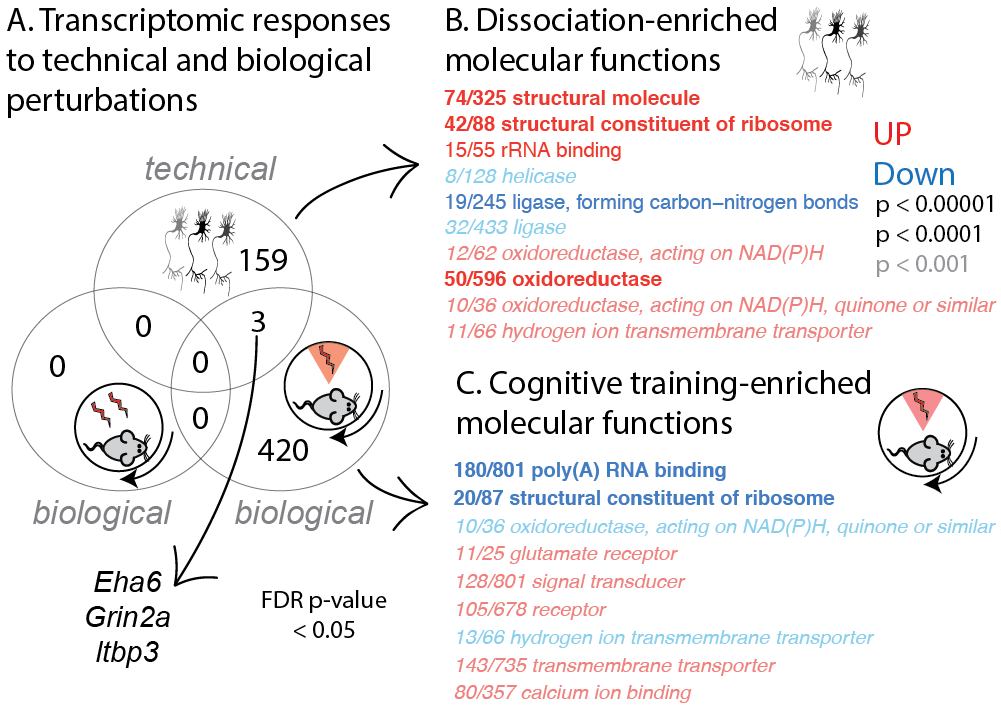
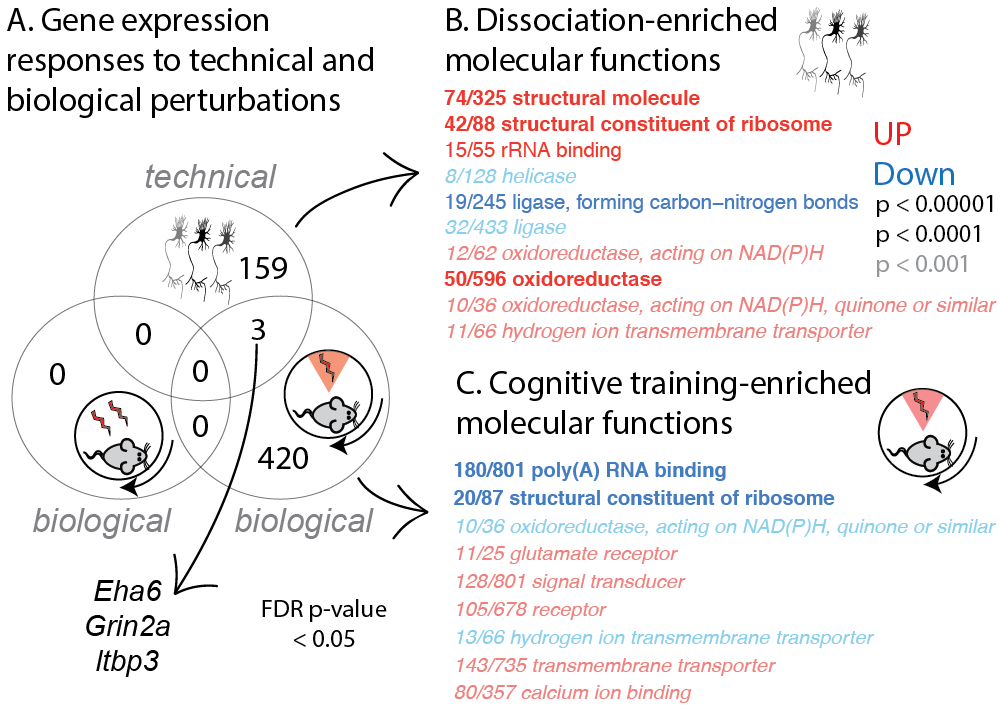
better figure titles

diff --git a/README.md b/README.md
@@ -39,7 +39,7 @@ We first processed tissue punch samples from the dentate gyrus, CA3, and CA1 hip
 
 <img src="https://github.com/raynamharris/DissociationTest/blob/master/figures/03_cognitiontest/03_cognitiontest-01.png" width="600px" align="middle"/>
 
-**Figure 3. Effects of a learned avoidance behavior on hippocampal transcriptomes.** A) Mice used in this study were either subjected to random but mild foot shocks (control) or subjected to mild foot shocks conditioned with spatial cues (trained). Tissue samples were collected from CA1, CA3, and DG. B) We identified only 423 genes that were significantly expressed according to cognitive training and identified 3485 genes that were were differentially expressed between any of the three brain regions (FDR p-value <0.05). C) Hierarchical clustering of the differentially expressed genes gives rise to three distinct clusters corresponding to the three brain regions, with CA1 and CA3 being more similar to one another than to DG. D) A principal component analysis of all genes in analysis (regardless of level of significance) shows that PC1 accounts for 50% of the variation and distinguishes the DG samples and the CA1 and CA3. PC2 accounts for 18% of the variation and distinguishes all three subfields. Ellipses were hand-drawn.
+**Figure 3. Effects of a learned avoidance behavior on hippocampal transcriptomes.** A) Mice used in this study were either subjected to random but mild foot shocks (control) or subjected to mild foot shocks conditioned with spatial cues (trained). Tissue samples were collected from CA1, CA3, and DG. B) We identified only 423 genes that were significantly expressed according to cognitive training and identified 3485 genes that were differentially expressed between any of the three brain regions (FDR p-value <0.05). C) Hierarchical clustering of the differentially expressed genes gives rise to three distinct clusters corresponding to the three brain regions, with CA1 and CA3 being more similar to one another than to DG. D) A principal component analysis of all genes in analysis (regardless of level of significance) shows that PC1 accounts for 56% of the variation and distinguishes the DG samples and the CA1 and CA3. PC2 accounts for 19% of the variation and distinguishes all three subfields. Ellipses were hand-drawn.
 
 
 ### Figure 4 and 5: Meta analyses
@@ -49,12 +49,12 @@ Here are [the analyses of Gene Ontology](./markdownfiles/06_GO_MWU/06_GO_MWU.Rmd
 
 <img src="https://github.com/raynamharris/DissociationTest/blob/master/figures/05_metaanalyses/05_meta123-01.png" width="600px" align="middle"/>
 
-**Figure 4. Unique and shared responses to technical treatments and biological perturbations.** A) The number of genes that show distinct or overlapping responses. B) The molecular function of genes up- or down-regulated in response to cellular dissociation. C) The molecular function of up- or down-regulated genes in response to cognitive training. The top 10 most significant GO terms are visualized, each with a p-value < 0.001.
+**Figure 4. Unique and shared responses to technical treatments and biological perturbations.** A) The number of genes that responded to chemical dissociation (163 genes), a stressful experience (0 genes), and cognitive training (423 genes). The three genes that respond to both technical and biological perturbation are Epha6, Grin2a, and Itbp3. B, C) The molecular function of gene ontology (GO) categories that are significantly enriches with either up- or down-regulated genes in response to cellular dissociation (B) or cognitive training (C). The top 10 most significant GO terms are visualized, each with a p-value < 0.001. The fraction next to GO category name indicates the fraction of genes in that category that survived a 10% FDR threshold for significance. Zero terms survived a 10% FDR threshold in response to a stressful experience.
 
 
 <img src="https://github.com/raynamharris/DissociationTest/blob/master/figures/05_metaanalyses/05_meta1234-01.png" width="600px" align="middle"/>
 
-**Figure 5. Meta analysis to incorporate public data.** A) This Venn diagram shows the overlap in brain-region specific gene expression across all four experiments (cellular dissociation, stressor habitation, cognitive training, and a public dataset examining sub-field comparisons). Using this approach, we identified 146 genes that were differentially expressed between DG-CA3-CA1 of the hippocampus in all four experiments. B) Those 146 provide robust brain-region specific markers of gene expression belong to molecular function and cellular compartment GO.
+**Figure 5. Meta analysis to incorporate public data.** A) This Venn diagram shows the overlap in brain-region specific gene expression across all four experiments (cellular dissociation, stressor habitation, cognitive training, and a public dataset examining subfield comparisons). Using this approach, we identified 146 genes that were differentially expressed between any two subfields of the hippocampus in all four experiments. B) Those 146 provide robust brain-region specific markers of gene expression belong to molecular function and cellular compartment GO. The top 10 most significant GO terms are visualized, each with a p-value < 0.05. The fraction next to GO category name indicates the fraction of genes in that category that survived a 10% FDR threshold for significance. 
 
 
 ### Supplementary analyses: Reproducing the Cembrowski results.  
